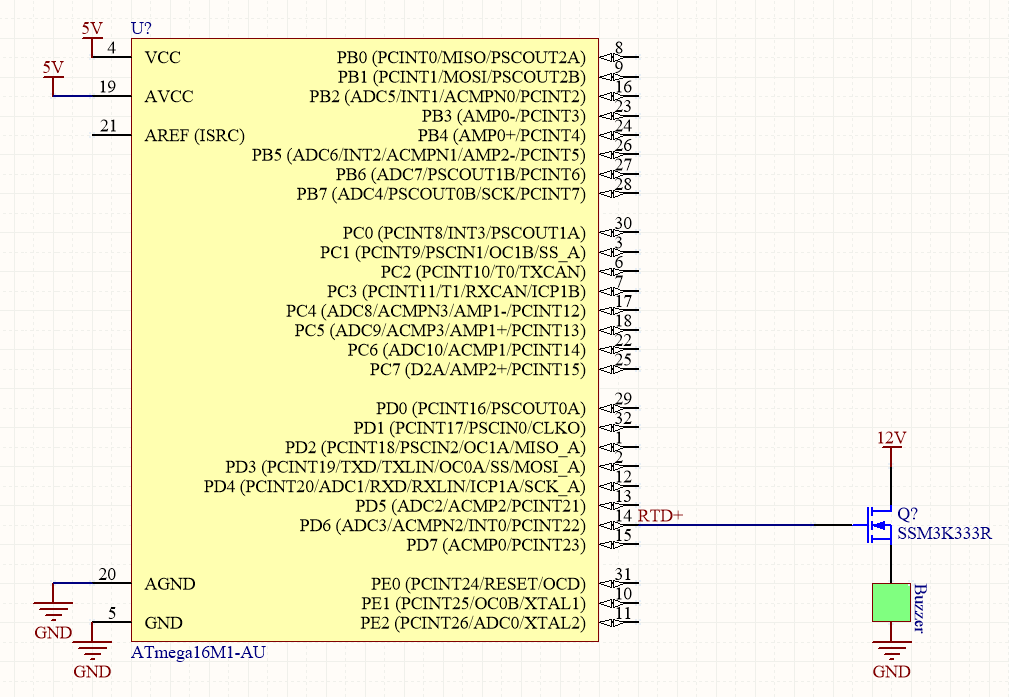
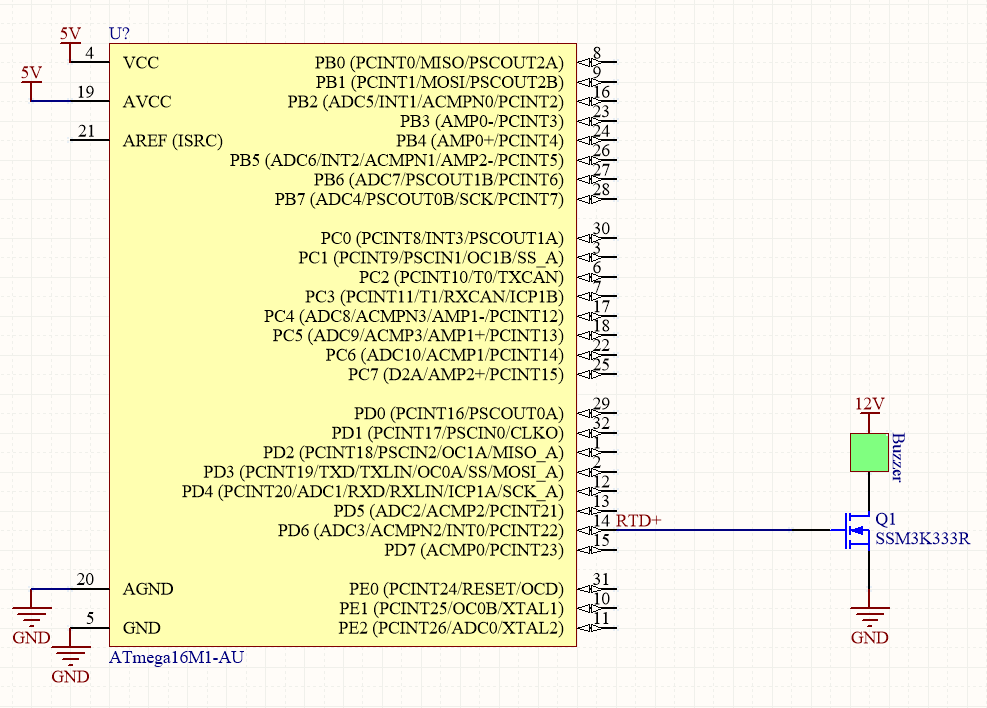
Fixes
Moved the buzzer, speced new buzzer

Changed region(s): [[0.0, 0.0301, 1.0, 0.9641], [0.8511, 0.8135, 0.9119, 0.9943], [0.8511, 0.5725, 0.9119, 0.693]]

diff --git a/esf_main.tex b/esf_main.tex
@@ -13,14 +13,13 @@
 \subsection{Ready-To-Drive-Sound (RTDS)}
 \subsubsection{Description}
 %Describe your concept of the RTDS, how is the sound produced, what are the parameters for activating the RTDS, etc.
-The Ready to Drive sound is located as a component of the dashboard subsystem, and contains a buzzer (\href{http://www.puiaudio.com/pdf/XL-5530L-LW300-S-R.pdf}{Link: PUI Audio Inc. XL-5530L-LW300-S-R}). The buzzer automatically makes a noise when given power, with the loudness proportional
-to the voltage. The last step in the start up sequence will notify the CAN system that it is time for the ready
-to drive sound. This will then provide voltage to the gate of an N-FET which will provide 12V to the buzzer.
+The Ready to Drive sound is located as a component of the dashboard subsystem, and contains a buzzer (\href{http://www.mallory-sonalert.com/specifications/STA20502.PDF}{Link: Mallory Sonalert Products Inc. STA20502}). The buzzer automatically makes a noise when given power, with the loudness proportional
+to the voltage. The BMS will notify the Dashboard CAN system when shutdown circuit is complete. This will then provide voltage to the gate of an N-FET which will provide a ground path for the buzzer.
 \subsubsection{Wiring, cables, current calculations, connectors}
 %Describe wiring, show schematics, describe connectors and cables and show useful data regarding the wiring.
 When the shutdown circuit closes and activates the AIRs, the car is in ready to drive mode. As soon as the
 car is in this mode, the CAN system will activate the ready to drive sound node to send a positive output
-that provides voltage to the N-FET 2 seconds, thus letting the buzzer sound for 2 seconds. 
+that provides voltage to the N-FET for 2 seconds, thus letting the buzzer sound for 2 seconds. 
 
 
 \begin{figure}[h]
@@ -31,10 +30,10 @@ that provides voltage to the N-FET 2 seconds, thus letting the buzzer sound for 
 	\includegraphics[width=\linewidth]{FormulasForDistanceAndSoundLevel}
 	\caption{Inverse Square Law equations needed to calculate the volume at a certain distance}
 \end{figure}
-Using the inverse square law for sound pressure levels, 123db at 10cm will translate to 117db at 2m which is well over the minimum SPL. 
+Using the inverse square law for sound pressure levels, 97db at 122cm will translate to 93db at 2m which is a loud enough volume without inducing harm to the listener. 
 \subsubsection{Position in car}
 %Provide CAD-renderings showing all relevant parts. Mark the parts in the rendering, if necessary.
 The ready to drive sound will be located in the dashboard enclosure shown in Figure !!!!. The buzzer will be mounted
 to the exterior and front side of this enclosure. It must be contained outside of the box so that the buzzer is
-loud enough and is waterproof, so it doesn't require any extra protection besides a waterproof O-ring around the mounting point.
+loud enough. The speaker is waterproof, so it doesn't require any extra protection besides using an RTV silicone seal for final instillation. 
 \end{document}
